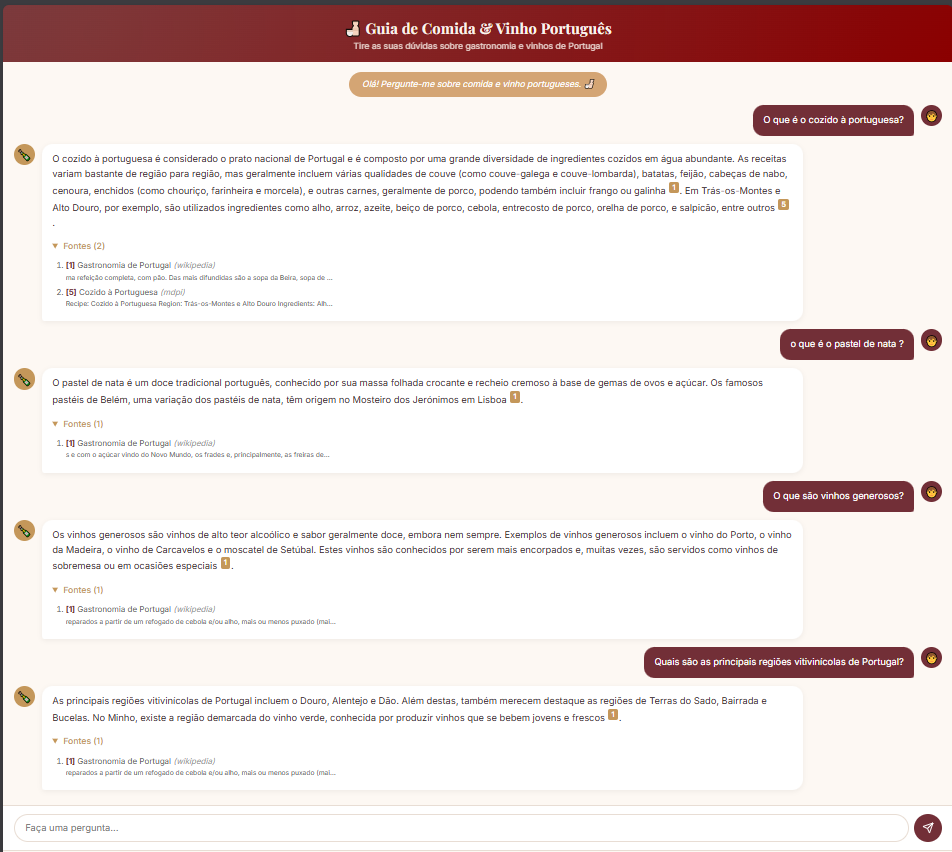
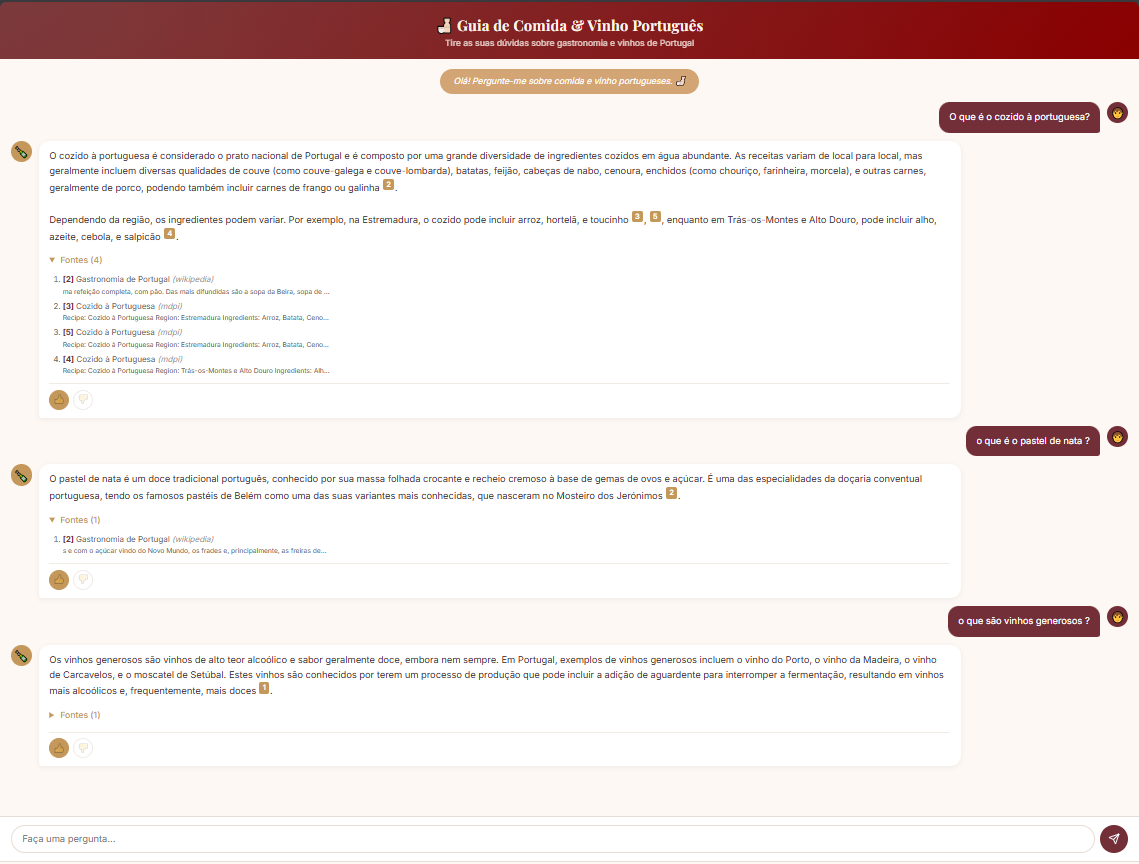
Add feedback buttons (thumbs up/down) to chat UI

Changed region(s): [[0.0, 0.0, 1.0, 1.0], [0.8225, 0.3662, 1.0, 0.4272]]

diff --git a/src/api/static/index.html b/src/api/static/index.html
@@ -156,6 +156,38 @@
   .citations li { margin-bottom: 6px; line-height: 1.4; }
   .citations strong { color: #722F37; }
   .citations em { color: #999; }
+  .feedback-bar {
+    display: flex;
+    gap: 6px;
+    align-items: center;
+    margin-top: 10px;
+    padding-top: 8px;
+    border-top: 1px solid #f0ebe4;
+  }
+  .feedback-btn {
+    background: none;
+    border: 1px solid #e0d6cc;
+    border-radius: 50%;
+    width: 30px;
+    height: 30px;
+    cursor: pointer;
+    display: flex;
+    align-items: center;
+    justify-content: center;
+    font-size: 14px;
+    transition: all 0.2s;
+    padding: 0;
+    line-height: 1;
+  }
+  .feedback-btn:hover { border-color: #C4975A; background: #fdf8f3; }
+  .feedback-btn.active { border-color: #C4975A; background: #C4975A; }
+  .feedback-btn:disabled { cursor: default; opacity: 0.5; }
+  .feedback-btn.active:disabled { opacity: 1; }
+  .feedback-msg {
+    font-size: 11px;
+    color: #999;
+    margin-left: 4px;
+  }
   .citation-ref {
     display: inline-block;
     background: #C4975A;
@@ -373,9 +405,37 @@
       details.appendChild(ol);
       bubble.appendChild(details);
     }
+    if (role === 'assistant') {
+      var feedbackBar = document.createElement('div');
+      feedbackBar.className = 'feedback-bar';
+      var thumbsUp = document.createElement('button');
+      thumbsUp.className = 'feedback-btn';
+      thumbsUp.textContent = '\u{1F44D}';
+      thumbsUp.title = 'Resposta \u00fatil';
+      thumbsUp.onclick = function() { sendFeedback(conversationId, 5, thumbsUp, thumbsDown); };
+      var thumbsDown = document.createElement('button');
+      thumbsDown.className = 'feedback-btn';
+      thumbsDown.textContent = '\u{1F44E}';
+      thumbsDown.title = 'Resposta n\u00e3o \u00fatil';
+      thumbsDown.onclick = function() { sendFeedback(conversationId, 1, thumbsDown, thumbsUp); };
+      feedbackBar.appendChild(thumbsUp);
+      feedbackBar.appendChild(thumbsDown);
+      bubble.appendChild(feedbackBar);
+    }
     div.appendChild(bubble);
     chatContainer.appendChild(div);
     scrollToBottom();
+  }
+
+  function sendFeedback(convId, score, activeBtn, otherBtn) {
+    activeBtn.disabled = true;
+    otherBtn.disabled = true;
+    activeBtn.classList.add('active');
+    fetch('/api/feedback', {
+      method: 'POST',
+      headers: { 'Content-Type': 'application/json' },
+      body: JSON.stringify({ conversation_id: convId, score: score }),
+    }).catch(function() {});
   }
 
   function showLoading() {